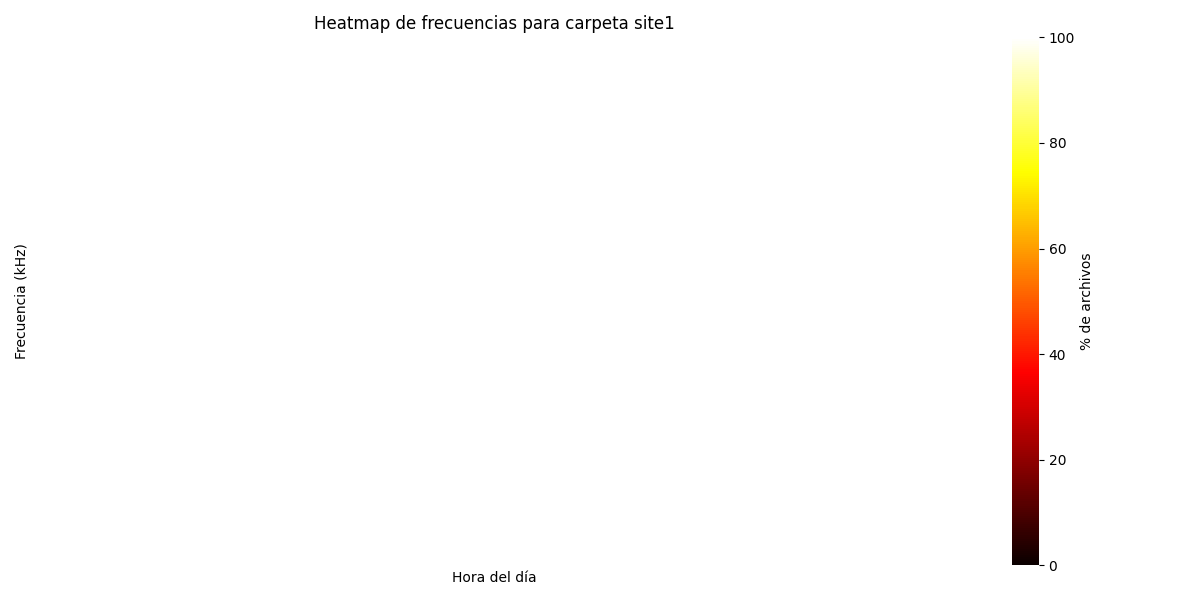
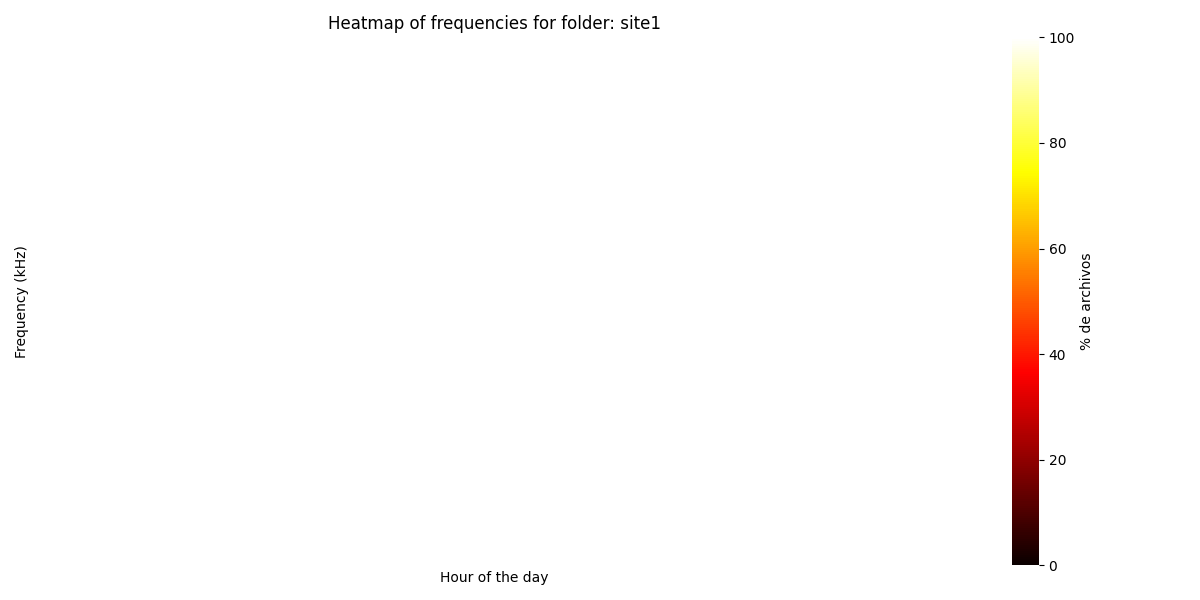
Bugs fixed

Changed region(s): [[0.2467, 0.03, 0.555, 0.06], [0.0, 0.42, 0.0308, 0.6], [0.37, 0.93, 0.4625, 0.99]]

diff --git a/CTKApp/views/heat_Map_Window.py b/CTKApp/views/heat_Map_Window.py
@@ -24,6 +24,7 @@ class HeatMapWindow(CTkFrame):
         self._load_images()
         self.setup_labels()
         self.setup_btn()
+        self.loading_setup()
         self.csv = None
         self.index_buttons = []
         self.index_columns = []
@@ -31,6 +32,11 @@ class HeatMapWindow(CTkFrame):
         self.index_menu = None
         self.plot_btn = None
 
+    def hide_progress_bar(self):
+        self.progress_bar.stop()
+        self.progress_bar.place_forget()  # Oculta la barra completamente
+
+        
 
     def _load_images(self):
         try:
@@ -53,6 +59,13 @@ class HeatMapWindow(CTkFrame):
         self.file_label = CTkLabel(self, text="File",fg_color="transparent",
                                     font=("Inter", 15), text_color="#FFFFFF" )
         self.file_label.place(relx=0.25, rely=0.15, anchor="w")
+
+    def loading_setup(self):
+        self.progress_bar = CTkProgressBar(self, width=300)
+        
+        self.progress_bar.set(0)
+        self.progress_bar.configure(mode="indeterminate")
+        self.progress_bar.stop()
 
     def setup_btn(self):
         self.select_folder_btn = CTkButton(self, text="Choose Folder",font=("Inter", 18), fg_color="#63C132", 
@@ -110,7 +123,9 @@ class HeatMapWindow(CTkFrame):
     def process_folder(self, folder):
         audio_extensions = (".flac", ".wav", ".mp3")
         data = []
-
+        self.progress_bar.place(relx=0.05, rely=0.3, anchor="w")
+        self.progress_bar.start()
+        self.progress_bar.update()
         for root, dirs, files in os.walk(folder):
             for file in files:
                 if file.lower().endswith(audio_extensions):
@@ -134,7 +149,9 @@ class HeatMapWindow(CTkFrame):
             writer.writerows(data)
 
         print(f"CSV created at: {output_csv}")
+        self.hide_progress_bar()
         self.generar_heatmaps(output_csv)
+        
 
 
     def generar_heatmaps(self, csv_path):
@@ -166,7 +183,7 @@ class HeatMapWindow(CTkFrame):
             )
             plt.title(f"Heatmap of frequencies for folder: {folder}")
             plt.xlabel("Hour of the day")
-            plt.ylabel("Frequency (kHz)")
+            plt.ylabel("Frequency (Hz)")
             plt.xticks(rotation=0)
             plt.yticks(rotation=0)
             plt.tight_layout()

diff --git a/CTKApp/views/arbimon_window.py b/CTKApp/views/arbimon_window.py
@@ -20,8 +20,13 @@ class ArbimonWindow(CTkFrame):
         self.sites = []
         self.folder = ""
 
-        if os.path.exists(".rfcx_credentials"):        
-            self.load_projects()
+        if os.path.exists(".rfcx_credentials"):
+            try:
+                self.load_projects()
+            except Exception as e:
+                print(str(e))
+                print("Network Error: Can't Loggin To Arbimon")
+                        
         
         self.selection_setup()    
         self.loading_setup()
@@ -56,10 +61,15 @@ class ArbimonWindow(CTkFrame):
         self.progress_bar.stop()
 
     def load_up(self):
-        self.btn_logout.configure(state="normal")
-        self.log_in.configure(state="disabled")
-        self.load_projects()
-        self.selection_setup()
+        try:
+            self.load_projects()
+            self.selection_setup()
+            self.btn_logout.configure(state="normal")
+            self.log_in.configure(state="disabled")
+        except Exception as e:
+            print(str(e))
+            print("Network Error: Can't Loggin To Arbimon")
+
 
     def label_setup(self):
         self.label_pipe = CTkLabel(self, text="Pipe", text_color="#FFFFFF", 
@@ -162,8 +172,7 @@ class ArbimonWindow(CTkFrame):
         retry = messagebox.askretrycancel(
             "Error during download",
             f"An error occurred during the download:\n\n{str(error)}\n\n"
-            "Do you want to retry from the last downloaded file?\n"
-            "(Cancel will delete partially downloaded files)",
+            "Do you want to retry from the last downloaded file?\n",
             icon='error'
         )
         
@@ -178,7 +187,8 @@ class ArbimonWindow(CTkFrame):
             ).start()
         else:
             # Clean up partial downloads
-            self.cleanup_partial_downloads(folder, project_name)
+            # self.cleanup_partial_downloads(folder, project_name)
+            pass
 
     def cleanup_partial_downloads(self, folder, project_name):
         try:

diff --git a/CTKApp/controllers/rfcx/_audio.py b/CTKApp/controllers/rfcx/_audio.py
@@ -41,8 +41,8 @@ def __save_file(url, local_path, token, stop_flag):
         print(f"Timeout downloading {url}. Ignoring and continue.")
     except Exception as e:
         stop_flag.set()
-        print(e)
-        raise Exception(f"Network error when accessing {url}: {e}")
+        if str(e) == "('Connection aborted.', RemoteDisconnected('Remote end closed connection without response'))":
+            raise Exception(f"Network error when accessing {url}: {e}")
 
 
 def __local_audio_file_path(path, audio_name, audio_extension):
@@ -93,7 +93,8 @@ def __download_segment(token, save_path, stream_id, start_str, file_ext, stop_fl
         print(str(e))
         if str(e) == "The content for this response was already consumed":
             return
-        raise Exception(f"Network error while downloading segment {start_str}: {e}") from e
+        if str(e) == "('Connection aborted.', RemoteDisconnected('Remote end closed connection without response'))":
+            raise Exception(f"Network error while downloading segment {start_str}: {e}") from e
     return local_path
 
 
@@ -307,3 +308,4 @@ def download_segments(token,
                         os.remove(os.path.normpath(os.path.join(temp_dir, f)))
                     except Exception as e:
                         print(f"Warning: Could not remove temp file {f}: {e}")
+            os.removedirs(temp_dir)
